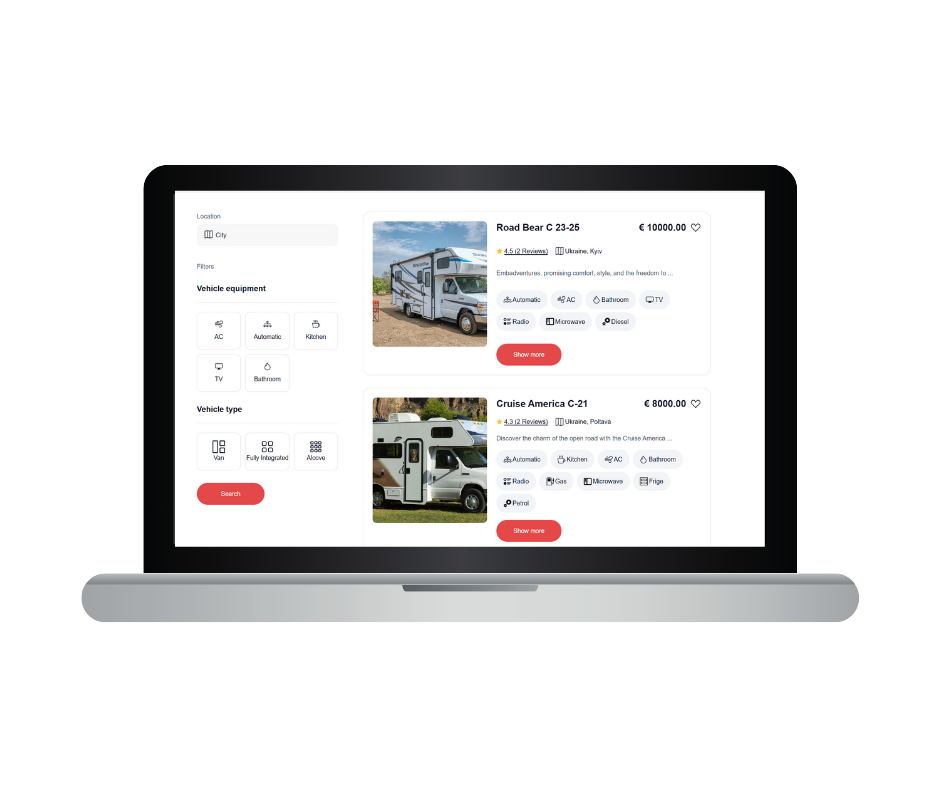
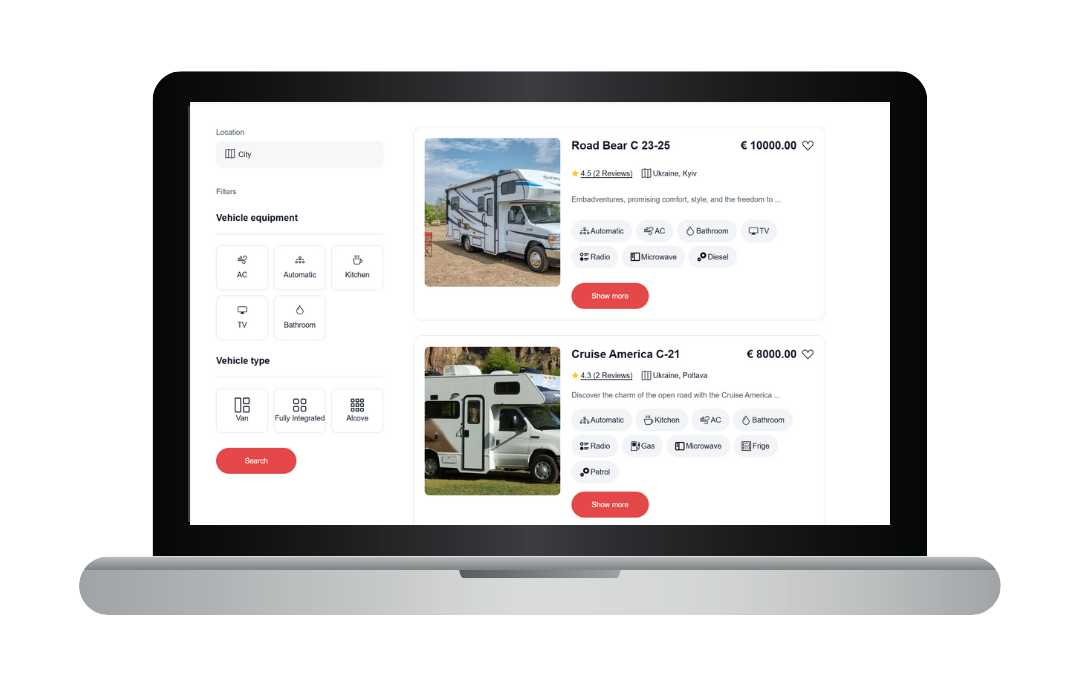
TravelTrucks

diff --git a/src/components/Projects/Projects.js b/src/components/Projects/Projects.js
@@ -5,7 +5,7 @@ import Particle from "../Particle";
 import leaf from "../../Assets/Projects/leaf.png";
 import emotion from "../../Assets/Projects/emotion.png";
 import editor from "../../Assets/Projects/codeEditor.png";
-import chatify from "../../Assets/Projects/chatify.png";
+import TravelTrucks from "../../Assets/Projects/TravelTrucks.png";
 import suicide from "../../Assets/Projects/suicide.png";
 import bitsOfCode from "../../Assets/Projects/blog.png";
 
@@ -23,12 +23,12 @@ function Projects() {
         <Row style={{ justifyContent: "center", paddingBottom: "10px" }}>
           <Col md={4} className="project-card">
             <ProjectCard
-              imgPath={chatify}
+              imgPath={TravelTrucks}
               isBlog={false}
-              title="Chatify"
-              description="Personal Chat Room or Workspace to share resources and hangout with friends build with react.js, Material-UI, and Firebase. Have features which allows user for realtime messaging, image sharing as well as supports reactions on messages."
-              ghLink="https://github.com/soumyajit4419/Chatify"
-              demoLink="https://chatify-49.web.app/"
+              title="TravelTrucks"
+              description="TravelTrucks is a web application for renting campers, allowing users to browse all available vehicles, filter by specific criteria, and view detailed information for each camper."
+              ghLink="https://github.com/tobolovskaya/TravelTrucks"
+              demoLink="https://travel-trucks-red-six.vercel.app/"
             />
           </Col>
 
